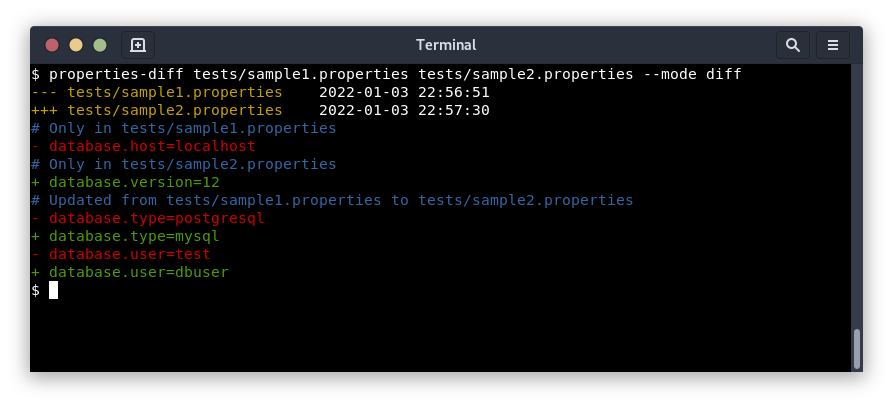
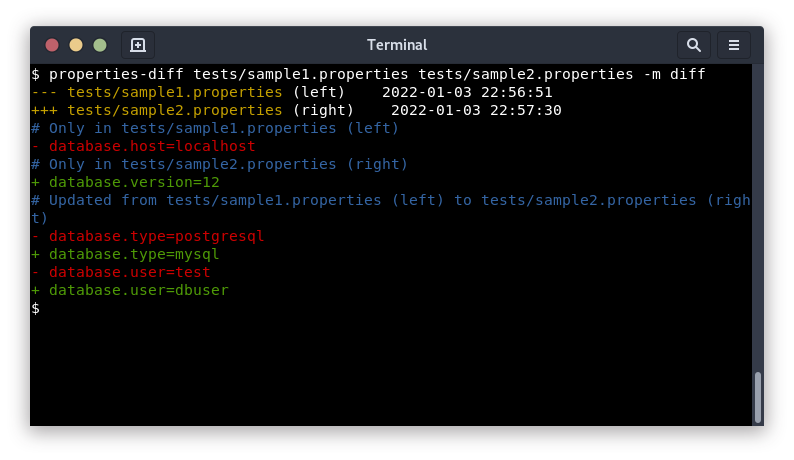
✨ Selectable section to show
- selectable section to print (added/deleted/modified)

Changed region(s): [[0.0302, 0.0296, 0.9673, 0.9458], [0.4534, 0.3251, 0.5139, 0.3842]]

diff --git a/properties_diff/cli.py b/properties_diff/cli.py
@@ -22,13 +22,13 @@ def properties_to_dict(file: Path, separator="=", comment_char="#") -> Dict[str,
             pass
         elif separator not in line:
             # invalid line
-            se = SyntaxError(
+            error = SyntaxError(
                 f"Invalid file, no separator '{separator}' on line {lineno}"
             )
-            se.lineno = lineno
-            se.filename = str(file)
-            se.text = line
-            raise se
+            error.lineno = lineno
+            error.filename = str(file)
+            error.text = line
+            raise error
         else:
             index = line.index(separator)
             key = line[0:index].strip()
@@ -65,6 +65,30 @@ def run(args=None):
         help="select a format to show differences: using colors only (simple), using diff-like format (diff) or wdiff-like (wdiff) format. Default is 'diff'",
     )
     parser.add_argument(
+        "-A",
+        "--added",
+        action="append_const",
+        dest="sections",
+        const="added",
+        help="print added properties",
+    )
+    parser.add_argument(
+        "-D",
+        "--deleted",
+        action="append_const",
+        dest="sections",
+        const="deleted",
+        help="print deleted properties",
+    )
+    parser.add_argument(
+        "-M",
+        "--modified",
+        action="append_const",
+        dest="sections",
+        const="modified",
+        help="print modified properties",
+    )
+    parser.add_argument(
         "left",
         type=Path,
         metavar="left.properties",
@@ -95,39 +119,49 @@ def run(args=None):
         assert len(right) > 0, f"Cannot find any property in {args.right}"
 
         added = [key for key in sorted(right) if key not in left]
-        removed = [key for key in sorted(left) if key not in right]
-        updated = [
+        deleted = [key for key in sorted(left) if key not in right]
+        modified = [
             key for key in sorted(left) if key in right and left[key] != right[key]
         ]
-        if len(added) == 0 and len(removed) == 0 and len(updated) == 0:
+        if len(added) == 0 and len(deleted) == 0 and len(modified) == 0:
             print(f"Files {args.left} and {args.right} are similar")
         else:
             if not args.quiet:
-                print(f"{Fore.YELLOW}--- {args.left}{Fore.RESET}    {date(args.left)}")
-                print(
-                    f"{Fore.YELLOW}+++ {args.right}{Fore.RESET}    {date(args.right)}"
-                )
-
-            if len(removed):
-                print(f"{Fore.BLUE}# Only in {args.left}{Fore.RESET}")
                 if args.mode == "simple":
-                    for key in removed:
+                    print(
+                        f"{Fore.YELLOW}*** {args.left}{Fore.RESET} (left)    {date(args.left)}"
+                    )
+                    print(
+                        f"{Fore.YELLOW}*** {args.right}{Fore.RESET} (right)    {date(args.right)}"
+                    )
+                else:
+                    print(
+                        f"{Fore.YELLOW}--- {args.left}{Fore.RESET} (left)    {date(args.left)}"
+                    )
+                    print(
+                        f"{Fore.YELLOW}+++ {args.right}{Fore.RESET} (right)    {date(args.right)}"
+                    )
+
+            if len(deleted) and (args.sections is None or "deleted" in args.sections):
+                print(f"{Fore.BLUE}# Only in {args.left} (left){Fore.RESET}")
+                if args.mode == "simple":
+                    for key in deleted:
                         print(
                             f"{Fore.RED}{key}{args.sep}{quote(left, key)}{Fore.RESET}"
                         )
                 elif args.mode == "diff":
-                    for key in removed:
+                    for key in deleted:
                         print(
                             f"{Fore.RED}- {key}{args.sep}{quote(left, key)}{Fore.RESET}"
                         )
                 elif args.mode == "wdiff":
-                    for key in removed:
+                    for key in deleted:
                         print(
                             f"{Fore.RED}[-{key}{args.sep}{quote(left, key)}-]{Fore.RESET}"
                         )
 
-            if len(added):
-                print(f"{Fore.BLUE}# Only in {args.right}{Fore.RESET}")
+            if len(added) and (args.sections is None or "added" in args.sections):
+                print(f"{Fore.BLUE}# Only in {args.right} (right){Fore.RESET}")
                 if args.mode == "simple":
                     for key in added:
                         print(
@@ -144,21 +178,21 @@ def run(args=None):
                             f"{Fore.GREEN}{{+{key}{args.sep}{quote(right, key)}+}}{Fore.RESET}"
                         )
 
-            if len(updated):
+            if len(modified) and (args.sections is None or "modified" in args.sections):
                 print(
-                    f"{Fore.BLUE}# Updated from {args.left} to {args.right}{Fore.RESET}"
+                    f"{Fore.BLUE}# Updated from {args.left} (left) to {args.right} (right){Fore.RESET}"
                 )
                 if args.mode == "simple":
-                    for key in updated:
+                    for key in modified:
                         print(
                             f"{Fore.RED}{key}{args.sep}{quote(left, key)}{Fore.RESET}"
                         )
-                    for key in updated:
+                    for key in modified:
                         print(
                             f"{Fore.GREEN}{key}{args.sep}{quote(right, key)}{Fore.RESET}"
                         )
                 elif args.mode == "diff":
-                    for key in updated:
+                    for key in modified:
                         print(
                             f"{Fore.RED}- {key}{args.sep}{quote(left, key)}{Fore.RESET}"
                         )
@@ -166,12 +200,15 @@ def run(args=None):
                             f"{Fore.GREEN}+ {key}{args.sep}{quote(right, key)}{Fore.RESET}"
                         )
                 elif args.mode == "wdiff":
-                    for key in updated:
+                    for key in modified:
                         print(
                             f"{key}{args.sep}{Fore.RED}[-{quote(left, key)}-]{Fore.GREEN}{{+{quote(right, key)}+}}{Fore.RESET}"
                         )
     except BaseException as exc:
         print(f"{Fore.RED}ERROR: {exc}{Fore.RESET}", file=sys.stderr)
         if isinstance(exc, SyntaxError):
-            print(f"{Fore.YELLOW}{exc.filename}:{exc.lineno}{Fore.RESET}  {exc.text}")
+            print(
+                f"{Fore.YELLOW}{exc.filename}:{exc.lineno}{Fore.RESET}  {exc.text}",
+                file=sys.stderr,
+            )
         sys.exit(1)

diff --git a/tests/test_cli.py b/tests/test_cli.py
@@ -1,3 +1,5 @@
+import shlex
+
 import pytest
 from properties_diff.cli import run
 
@@ -5,49 +7,108 @@ SAMPLE1 = "tests/sample1.properties"
 SAMPLE1_ALT = "tests/sample1_alt.properties"
 SAMPLE2 = "tests/sample2.properties"
 
+NOT_QUIET = 2
+ADDED = 1
+DELETED = 1
+MODIFIED = 2
+
+
+def execute(capsys, command: str):
+    run(shlex.split(command))
+    captured = capsys.readouterr()
+    return captured.out.splitlines(), captured.err.splitlines()
+
 
 def test_missingargs(capsys):
     with pytest.raises(SystemExit):
-        run([SAMPLE1])
+        execute(capsys, f"{SAMPLE1}")
+
+
+def test_bad_sep(capsys):
+    with pytest.raises(SystemExit):
+        execute(capsys, f"{SAMPLE1} {SAMPLE1} --sep /")
+    captured = capsys.readouterr()
+    assert len(captured.out.splitlines()) == 0
+    assert len(captured.err.splitlines()) == 2
 
 
 def test_samefile(capsys):
-    run([SAMPLE1, SAMPLE1])
-    captured = capsys.readouterr()
-    assert len(captured.out.splitlines()) == 0
-    assert len(captured.err.splitlines()) == 0
+    out, err = execute(capsys, f"{SAMPLE1} {SAMPLE1}")
+    assert len(out) == 1
+    assert len(err) == 0
 
 
 def test_altfile(capsys):
-    run([SAMPLE1, SAMPLE1_ALT])
-    captured = capsys.readouterr()
-    assert len(captured.out.splitlines()) == 0
-    assert len(captured.err.splitlines()) == 0
+    out, err = execute(capsys, f"{SAMPLE1} {SAMPLE1_ALT}")
+    assert len(out) == 1
+    assert len(err) == 0
 
 
-def test_differentfile(capsys):
-    run([SAMPLE1, SAMPLE2])
-    captured = capsys.readouterr()
-    assert len(captured.out.splitlines()) == 15
-    assert len(captured.err.splitlines()) == 0
+def test_simple(capsys):
+    out, err = execute(capsys, f"{SAMPLE1} {SAMPLE2} --mode simple")
+    assert len(out) == NOT_QUIET + 1 + ADDED + 1 + DELETED + 1 + 2 * MODIFIED
+    assert len(err) == 0
 
 
-def test_differentfile_quiet(capsys):
-    run(["--quiet", SAMPLE1, SAMPLE2])
-    captured = capsys.readouterr()
-    assert len(captured.out.splitlines()) == 9
-    assert len(captured.err.splitlines()) == 0
+def test_diff(capsys):
+    out, err = execute(capsys, f"{SAMPLE1} {SAMPLE2} --mode diff")
+    assert len(out) == NOT_QUIET + 1 + ADDED + 1 + DELETED + 1 + 2 * MODIFIED
+    assert len(err) == 0
 
 
-def test_differentfile_group(capsys):
-    run(["--group", SAMPLE1, SAMPLE2])
-    captured_group = capsys.readouterr()
-    assert len(captured_group.out.splitlines()) == 15
-    assert len(captured_group.err.splitlines()) == 0
+def test_wdiff(capsys):
+    out, err = execute(capsys, f"{SAMPLE1} {SAMPLE2} --mode wdiff")
+    assert len(out) == NOT_QUIET + 1 + ADDED + 1 + DELETED + 1 + MODIFIED
+    assert len(err) == 0
 
-    run([SAMPLE1, SAMPLE2])
-    captured_nogroup = capsys.readouterr()
-    assert len(captured_nogroup.out.splitlines()) == 15
-    assert len(captured_nogroup.err.splitlines()) == 0
 
-    assert captured_group.out.splitlines() != captured_nogroup.out.splitlines()
+def test_quiet(capsys):
+    out, err = execute(capsys, f"{SAMPLE1} {SAMPLE2} --quiet")
+    assert len(out) == 1 + ADDED + 1 + DELETED + 1 + 2 * MODIFIED
+    assert len(err) == 0
+
+
+def test_quote(capsys):
+    out, err = execute(capsys, f"{SAMPLE1} {SAMPLE2}")
+    assert len(out) == NOT_QUIET + 1 + ADDED + 1 + DELETED + 1 + 2 * MODIFIED
+    assert len(err) == 0
+
+    out_quote, err_quote = execute(capsys, f"{SAMPLE1} {SAMPLE2} --quote")
+    assert len(out_quote) == len(out)
+    assert len(err_quote) == len(err)
+
+    for lineno, lines in enumerate(zip(out_quote, out), start=1):
+        if lineno in (4, 6, 8, 9, 10, 11):
+            assert len(lines[0]) == len(lines[1]) + 2
+        else:
+            assert len(lines[0]) == len(lines[1])
+
+
+def test_sections(capsys):
+    out, err = execute(capsys, f"{SAMPLE1} {SAMPLE2} -A")
+    assert len(out) == NOT_QUIET + 1 + ADDED
+    assert len(err) == 0
+
+    out, err = execute(capsys, f"{SAMPLE1} {SAMPLE2} -D")
+    assert len(out) == NOT_QUIET + 1 + DELETED
+    assert len(err) == 0
+
+    out, err = execute(capsys, f"{SAMPLE1} {SAMPLE2} -M")
+    assert len(out) == NOT_QUIET + 1 + 2 * MODIFIED
+    assert len(err) == 0
+
+    out, err = execute(capsys, f"{SAMPLE1} {SAMPLE2} -AD")
+    assert len(out) == NOT_QUIET + 1 + ADDED + 1 + DELETED
+    assert len(err) == 0
+
+    out, err = execute(capsys, f"{SAMPLE1} {SAMPLE2} -AM")
+    assert len(out) == NOT_QUIET + 1 + ADDED + 1 + 2 * MODIFIED
+    assert len(err) == 0
+
+    out, err = execute(capsys, f"{SAMPLE1} {SAMPLE2} -DM")
+    assert len(out) == NOT_QUIET + 1 + DELETED + 1 + 2 * MODIFIED
+    assert len(err) == 0
+
+    out, err = execute(capsys, f"{SAMPLE1} {SAMPLE2} -ADM")
+    assert len(out) == NOT_QUIET + 1 + ADDED + 1 + DELETED + 1 + 2 * MODIFIED
+    assert len(err) == 0

diff --git a/README.md b/README.md
@@ -12,8 +12,8 @@ Even if *properties* files are text files, using directly `diff` is not that eff
 # Usage
 
 ```sh
-$ properties-diff --help
-usage: properties-diff [-h] [-q] [--quote] [--sep SEP] [-m {simple,diff,wdiff}] left.properties right.properties
+$ properties-diff tests/sample1.properties tests/sample2.properties -h
+usage: properties-diff [-h] [-q] [--quote] [--sep SEP] [-m {simple,diff,wdiff}] [-A] [-D] [-M] left.properties right.properties
 
 positional arguments:
   left.properties       left file to compare
@@ -25,14 +25,16 @@ optional arguments:
   --quote               use double quotes for values, example: foo="bar"
   --sep SEP             key/value separator, default is '='
   -m {simple,diff,wdiff}, --mode {simple,diff,wdiff}
-                        select a format to show differences: using colors only (simple), using diff-like format (diff) or wdiff-like
-                        (wdiff) format. Default is 'diff'
+                        select a format to show differences: using colors only (simple), using diff-like format (diff) or wdiff-like (wdiff) format. Default is 'diff'
+  -A, --added           print added properties
+  -D, --deleted         print deleted properties
+  -M, --modified        print modified properties
 ```
 
 ## Modes
 
 
-You can see differences between the properties files using 3 modes using `--mode <MODE>`
+You can see differences between the properties files using 3 modes using `--mode <MODE>` or `-m <MODE>`
 * `simple`, based on colors, *red* for removed lines, *green* for added lines
 * `diff`, prints the changes like `diff` tool would do (this is the default mode)
 * `wdiff`, prints the changes like `wdiff` tool would do
